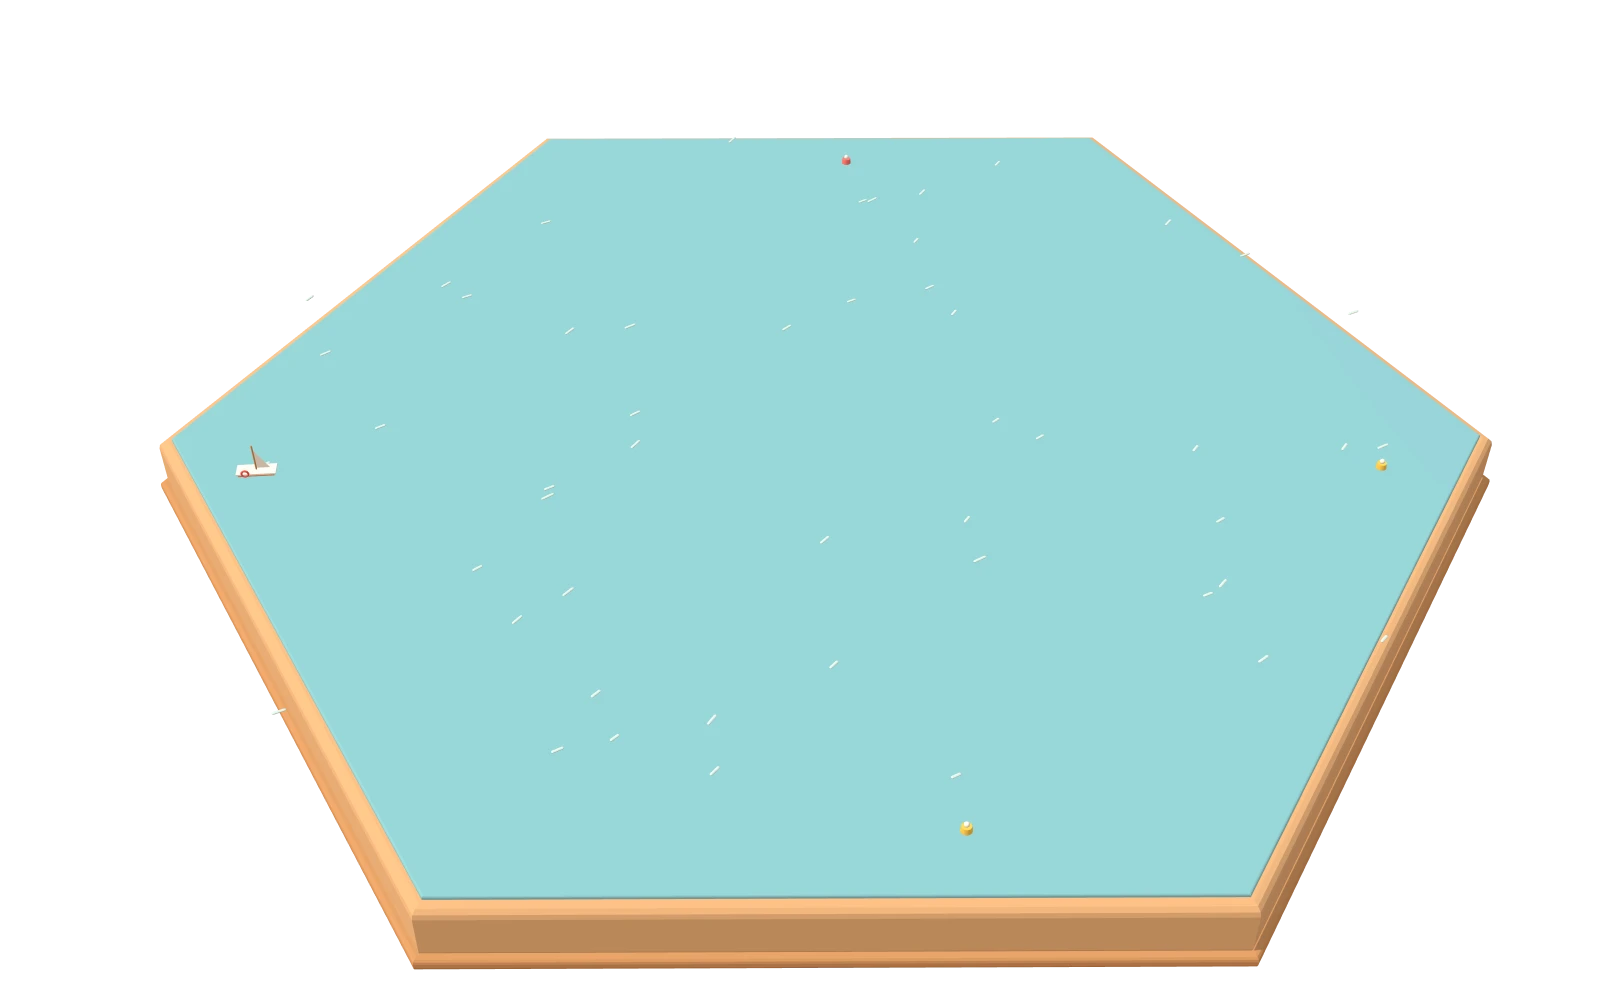
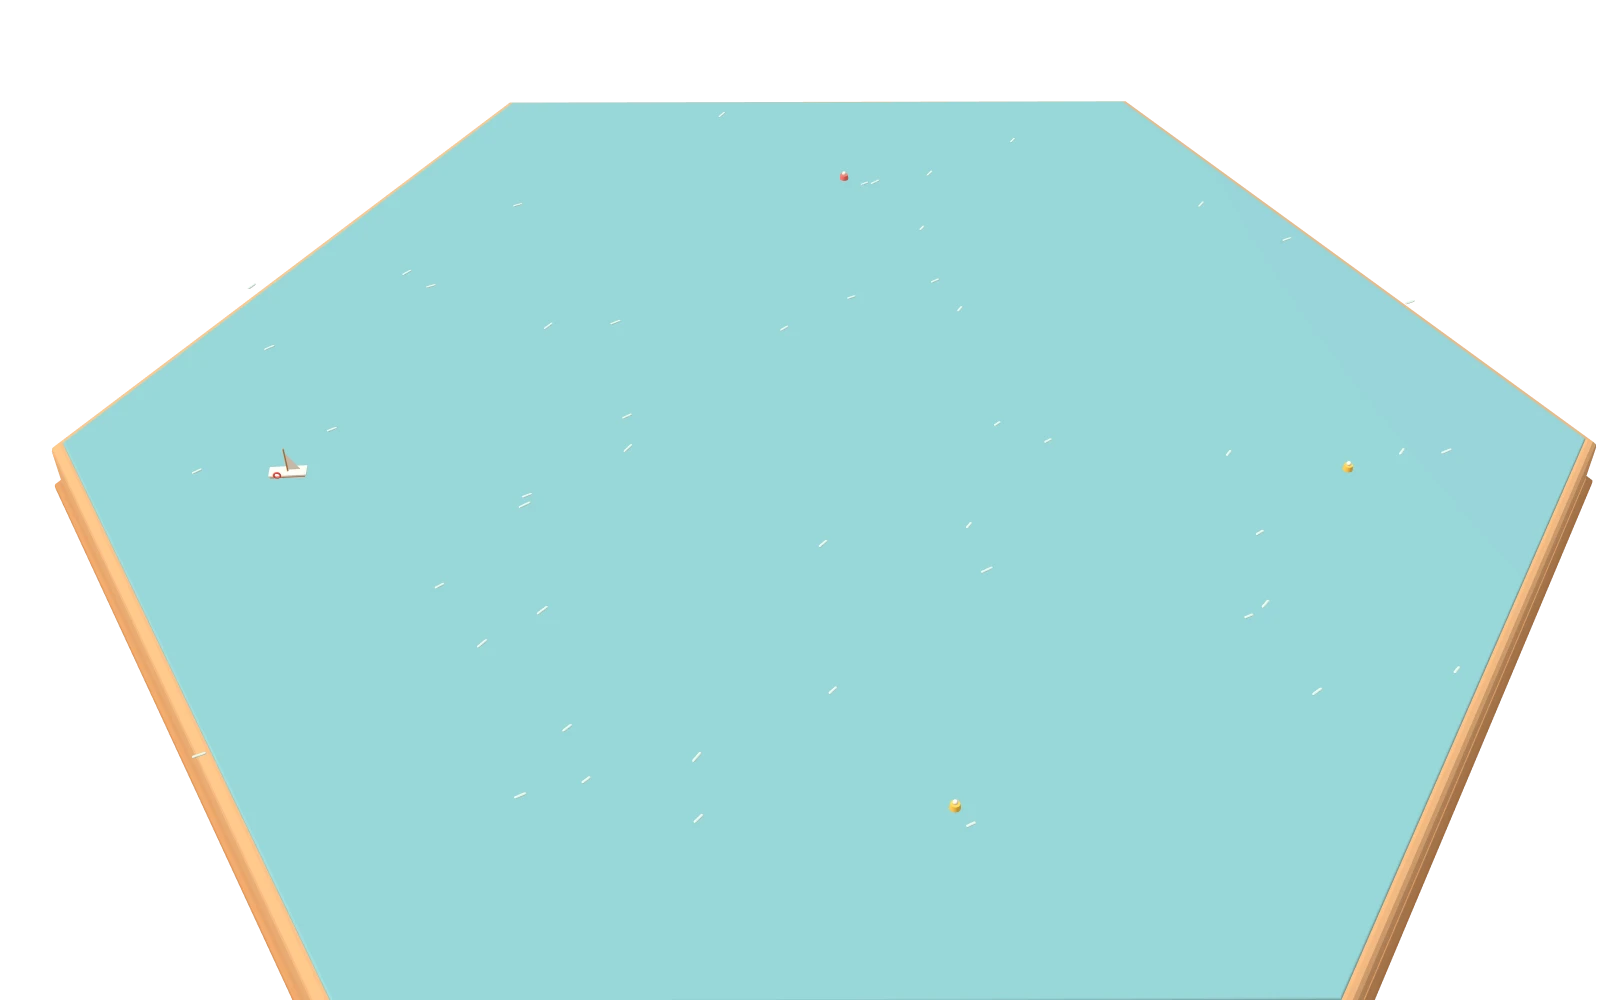
feat(island): 第 7 座「節慶島」——雪地＋聖誕裝飾，放 unit22 聖誕工坊
- data.js：節慶島 at:[-5,10]（離思考島、打字島各 5 格）、from:'type'（吊橋從打字島接）、small（只用第一圈，最多 6 關）、theme:'xmas'
- island-3d.html：
  - 島位置支援 at、吊橋支援從別座島出發、small 島不長第二圈
  - 底座 PLATE_R 17.5→21.5、陰影範圍 ±20→±24、三個機位用 CAM_K=1.06 往後拉
  - THEMES.xmas：雪地地塊、拐杖糖紅白環塔＋金星＋發光燈泡、空地塊輪放聖誕樹／雪人／禮物堆／拐杖糖
  - 新 3D 小物 xtree（小聖誕樹）
- 重新產圖：island/img（新增 fest.webp）、map-land/port.json（31 個熱區）

Changed region(s): [[0.0312, 0.093, 1.0, 1.0], [0.5938, 0.806, 0.625, 0.837]]

diff --git a/island-3d.html b/island-3d.html
@@ -177,17 +177,20 @@ const C = {
 const scene = new THREE.Scene();
 const camera = new THREE.PerspectiveCamera(28, innerWidth/innerHeight, 1, 220);
 const HOME_T = new THREE.Vector3(0, -1.2, 1.4);
-// 直向螢幕視野窄，依寬高比把鏡頭往後拉，讓六座島都入鏡
+// 直向螢幕視野窄，依寬高比把鏡頭往後拉，讓所有島都入鏡
+// CAM_K：2026-11-19 加第 7 座節慶島、底座 17.5→21.5，三個機位（互動橫／直、產圖橫／直）都從 HOME_T 往後拉這個倍數
+const CAM_K = 1.06;
+const camAt = v => v.clone().sub(HOME_T).multiplyScalar(CAM_K).add(HOME_T);
 const homePos = () => { const a = innerWidth / innerHeight;
-  if (a >= 1) return new THREE.Vector3(19.5, 33.5, 35.5);
-  const k = Math.min(1.6, Math.max(1, .58 / a)); return new THREE.Vector3(19.5, 60, 50).sub(HOME_T).multiplyScalar(k).add(HOME_T); };
+  if (a >= 1) return camAt(new THREE.Vector3(19.5, 33.5, 35.5));
+  const k = Math.min(1.6, Math.max(1, .58 / a)); return camAt(new THREE.Vector3(19.5, 60, 50).sub(HOME_T).multiplyScalar(k).add(HOME_T)); };
 camera.position.copy(homePos());
 
 const hemi = new THREE.HemisphereLight(0xfffaf0, 0xf0c9a0, 1.7); hemi.layers.enableAll(); scene.add(hemi);
 const sun = new THREE.DirectionalLight(0xfff0d8, 2.6); sun.layers.enableAll();
 sun.position.set(-16, 28, 14); sun.castShadow = true;
 sun.shadow.mapSize.set(small ? 1024 : 2048, small ? 1024 : 2048);
-Object.assign(sun.shadow.camera, { left:-20, right:20, top:20, bottom:-20, near:1, far:90 });
+Object.assign(sun.shadow.camera, { left:-24, right:24, top:24, bottom:-24, near:1, far:90 }); // 2026-11-19 底座放大到 21.5，跟著放大
 sun.shadow.bias = -0.0004; sun.shadow.normalBias = 0.02;
 scene.add(sun);
 
@@ -219,7 +222,7 @@ const ring = (cq, cr, k) => { if (!k) return [[cq,cr]]; const out = []; let q = 
   for (let i=0;i<6;i++) for (let j=0;j<k;j++) { out.push([q,r]); q += DIRS[i][0]; r += DIRS[i][1]; } return out; };
 
 // ================= 水面底盤 =================
-const PLATE_R = 17.5;
+const PLATE_R = 21.5; // 2026-11-19 從 17.5 放大，容納第 7 座節慶島（at [-5,10]，離中心 15）
 mesh(hexGeo(PLATE_R, 1.6, .25), C.plateSide, scene, 0, -1.75, 0);
 mesh(hexGeo(PLATE_R + .25, .35, .12), C.plateSide2, scene, 0, -1.9, 0);
 { const water = new THREE.Mesh(hexGeo(PLATE_R - .35, .2, .05), new THREE.MeshStandardMaterial({ color:C.water, roughness:.25, metalness:.05 }));
@@ -227,7 +230,7 @@ mesh(hexGeo(PLATE_R + .25, .35, .12), C.plateSide2, scene, 0, -1.9, 0);
 const ripples = new THREE.InstancedMesh(new THREE.CapsuleGeometry(.04, .18, 2, 6), mat(0xd6f2fa, { roughness:.4 }), 50);
 const ripData = [];
 { const m4 = new THREE.Matrix4(), q4 = new THREE.Quaternion();
-  for (let i=0;i<50;i++) { const a = rnd()*Math.PI*2, d = 3 + rnd()*13; ripData.push({ x:Math.cos(a)*d, z:Math.sin(a)*d, rz:rnd()*.6, s:1+rnd()*.5, ph:rnd()*6 });
+  for (let i=0;i<50;i++) { const a = rnd()*Math.PI*2, d = 3 + rnd()*16; ripData.push({ x:Math.cos(a)*d, z:Math.sin(a)*d, rz:rnd()*.6, s:1+rnd()*.5, ph:rnd()*6 });
     q4.setFromEuler(new THREE.Euler(Math.PI/2, 0, ripData[i].rz)); m4.compose(new THREE.Vector3(ripData[i].x, -.04, ripData[i].z), q4, new THREE.Vector3(1, ripData[i].s, .5)); ripples.setMatrixAt(i, m4); }
   scene.add(ripples); }
 
@@ -330,6 +333,12 @@ const PROPS = {
     mesh(SP(.012,6,6), 0x3b2f2a, g, .22,.1,.03); },
   mushroom(g) { [[0,0,1],[.14,.08,.6]].forEach(([x,z,s]) => { mesh(CY(.04*s,.05*s,.18*s,10), 0xfff6e6, g, x,.09*s,z);
     mesh(SP(.13*s,16,10,0,Math.PI*2,0,Math.PI/2), 0xff6f8f, g, x,.17*s,z); for (let i=0;i<5;i++) { const a = i*1.25; mesh(SP(.022*s,6,6), 0xffffff, g, x+Math.cos(a)*.08*s,.25*s,z+Math.sin(a)*.08*s); } }); },
+  // 節慶島：小聖誕樹（三層綠錐＋金星＋彩球）
+  xtree(g) { [[.2,.26,.16],[.16,.22,.3],[.11,.18,.42]].forEach(([r,h,y]) => mesh(CO(r,h,10), 0x2e9e5b, g, 0,y,0));
+    mesh(CY(.04,.05,.08,8), 0x8a5a33, g, 0,.04,0);
+    mesh(new THREE.OctahedronGeometry(.055,0), 0xffd45c, g, 0,.54,0, { emissive:0xffb000, emissiveIntensity:.5 });
+    [[.12,.2,.08,0xff5a5a],[-.1,.27,.09,0xffd45c],[.07,.36,-.08,0x6fb3ff],[-.06,.18,-.12,0xff8fc4],[.02,.42,.07,0xffffff]].forEach(([x,y,z,c]) => mesh(SP(.028,8,6), c, g, x,y,z));
+    mesh(B(.1,.08,.1), 0xff5a5a, g, .2,.04,.12); mesh(B(.08,.06,.08), 0x5fd38d, g, -.2,.03,.14); },
   tent(g) { mesh(CO(.24,.34,4), 0xffa26b, g, 0,.17,0).rotation.y = Math.PI/4; mesh(B(.1,.18,.01), 0x7a4a2a, g, 0,.09,.17);
     mesh(CY(.008,.008,.2,6), 0x6b5a4e, g, 0,.42,0); mesh(B(.1,.06,.005), 0x6fb3ff, g, .05,.49,0);
     for (let i=0;i<5;i++) { const a = i*1.256; mesh(new THREE.DodecahedronGeometry(.025), C.rock, g, .28+Math.cos(a)*.06,.02,.12+Math.sin(a)*.06); }
@@ -392,18 +401,59 @@ let hubStar;
 addLabel(`<div class="isl" style="--c:#ffe1a8"><i>🏠</i>我的家</div>`, new THREE.Vector3(0, 3.4, 0)).el.classList.add('top');
 const hint = addLabel(`<div class="hint">👆</div>`, new THREE.Vector3(1.6, .9, 1.4));
 
-// 六座主題島
+// ================= 節慶主題（data.js 的 theme）=================
+// 只套在有 theme 的島：地面顏色、塔樓加裝飾、空地塊放節慶小物、關卡地塊旁的點綴
+function snowman(p, x, z, s=1) { const t = p.userData.top;
+  mesh(SP(.17*s,14,10), 0xffffff, p, x, t+.15*s, z); mesh(SP(.12*s,14,10), 0xffffff, p, x, t+.38*s, z); mesh(SP(.085*s,12,10), 0xffffff, p, x, t+.56*s, z);
+  mesh(CY(.07*s,.07*s,.1*s,12), 0x2b2b2b, p, x, t+.69*s, z); mesh(CY(.1*s,.1*s,.015*s,12), 0x2b2b2b, p, x, t+.64*s, z);
+  mesh(new THREE.TorusGeometry(.09*s,.025*s,6,14), 0xe0524a, p, x, t+.47*s, z).rotation.x = Math.PI/2;
+  mesh(CO(.018*s,.09*s,6), 0xff8a3d, p, x+.02*s, t+.56*s, z+.11*s).rotation.x = Math.PI/2;
+  [-1,1].forEach(k => mesh(SP(.013*s,6,6), 0x2b2b2b, p, x+.03*k*s, t+.59*s, z+.075*s)); }
+function candyCane(p, x, z, s=1) { const t = p.userData.top, g = new THREE.Group(); g.position.set(x, t, z); g.rotation.y = rnd()*6.28; p.add(g);
+  for (let i=0;i<6;i++) mesh(CY(.028*s,.028*s,.07*s,8), i%2 ? 0xffffff : 0xe0524a, g, 0, (.035+i*.07)*s, 0);
+  mesh(new THREE.TorusGeometry(.07*s,.028*s,8,12,Math.PI), 0xe0524a, g, .07*s, .42*s, 0); }
+function giftPile(p, x, z, s=1) { const t = p.userData.top;
+  [[0,0,.16,0xe0524a,0xffd45c],[.15,.06,.12,0x2e9e5b,0xffffff],[-.05,.13,.1,0x6fb3ff,0xe0524a]].forEach(([dx,dz,w,c,rb]) => {
+    const h = w*.85; mesh(B(w*s,h*s,w*s), c, p, x+dx*s, t+h*s/2, z+dz*s).rotation.y = dx*3;
+    mesh(B(w*s*1.02,h*s*1.02,.02*s), rb, p, x+dx*s, t+h*s/2, z+dz*s).rotation.y = dx*3; }); }
+function bigXtree(p, x, z, s=1) { const g = new THREE.Group(); g.position.set(x, p.userData.top, z); g.scale.setScalar(s); g.rotation.y = rnd()*6.28; p.add(g); PROPS.xtree(g); }
+const THEMES = {
+  xmas: {
+    ground: 0xf1f6fb,                 // 雪地
+    tower(ct, top) {                  // 拐杖糖紅白環＋頂端金星＋一圈發光燈泡
+      for (let y=0;y<6;y++) mesh(new THREE.TorusGeometry(.34,.035,6,24), y%2 ? 0xffffff : 0xe0524a, ct, 0, top+.38+y*.2, 0).rotation.x = Math.PI/2;
+      const star = mesh(new THREE.OctahedronGeometry(.17,0), 0xffd45c, ct, 0, top+2.45, 0, { emissive:0xffb000, emissiveIntensity:.6 }); star.scale.z = .45;
+      const LC = [0xff5a5a, 0xffd45c, 0x5fd38d, 0x6fb3ff];
+      for (let i=0;i<16;i++) { const a = i*.85, y = top+.35+i*.075; mesh(SP(.035,8,6), LC[i%4], ct, Math.cos(a)*.4, y, Math.sin(a)*.4, { emissive:LC[i%4], emissiveIntensity:.8 }); }
+      giftPile(ct, .55, .35, 1.1); candyCane(ct, -.6, .3, 1.1);
+    },
+    fill(t, k) {                      // 空地塊：輪流放聖誕樹、雪人、禮物堆、拐杖糖
+      [ () => { bigXtree(t, -.1, 0, 2.3); giftPile(t, .45, .35); },
+        () => { snowman(t, -.15, .05, 1.3); candyCane(t, .4, -.3); bigXtree(t, .4, .35, 1.2); },
+        () => { bigXtree(t, .15, -.15, 1.8); snowman(t, -.4, .35, .8); },
+        () => { giftPile(t, -.2, -.1, 1.3); candyCane(t, .35, .3, 1.2); bigXtree(t, .35, -.35, 1.1); },
+        () => { bigXtree(t, -.3, -.25, 1.5); bigXtree(t, .35, .25, 1.3); },
+        () => { snowman(t, .1, 0, 1.4); giftPile(t, -.45, .3, .8); } ][k % 6]();
+    },
+    dress(t) { candyCane(t, -.5, .35, .9); giftPile(t, .5, -.35, .7); },   // 關卡地塊旁的點綴
+  },
+};
+
+// 主題島：前六座圍著「我的家」一圈（CENTERS）；第 7 座起的島在 data.js 自帶 at:[q,r]，
+// 吊橋從 from 指定的島接過去（2026-11-19 節慶島）
 const CENTERS = [[5,0],[0,5],[-5,5],[-5,0],[0,-5],[5,-5]];
 const hubW = new THREE.Vector3();
 ISLANDS.forEach((isl, ii) => {
-  const [cq, cr] = CENTERS[ii], c = toWorld(cq, cr);
+  const [cq, cr] = isl.at || CENTERS[ii], c = toWorld(cq, cr);
   const root = newRoot(c, 1 + ii, isl.id);
   isl.center = c;
   const need = isl.list.length;
   const r2 = ring(cq, cr, 2).sort((a,b) => toWorld(...b).length() - toWorld(...a).length());
-  const slots = [...ring(cq, cr, 1), ...r2.slice(0, Math.max(0, need - 6) + 2)];
+  // small 島（節慶島）靠近底座邊緣，只用第一圈，不往外長第二圈
+  const slots = isl.small ? ring(cq, cr, 1) : [...ring(cq, cr, 1), ...r2.slice(0, Math.max(0, need - 6) + 2)];
 
-  const ct = tile(root, cq, cr, { top:pastel(isl.color,.45), lift:.25 });
+  const T = THEMES[isl.theme];
+  const ct = tile(root, cq, cr, { top:T ? T.ground : pastel(isl.color,.45), lift:.25 });
   const top = ct.userData.top;
   mesh(CY(.42,.5,.25,6), C.stone, ct, 0, top+.12, 0).rotation.y = Math.PI/6;
   mesh(CY(.3,.36,1.3,20), C.cream, ct, 0, top+.9, 0);
@@ -411,31 +461,35 @@ ISLANDS.forEach((isl, ii) => {
   for (let i=0;i<6;i++) { const a = i*Math.PI/3; windowAt(ct, Math.sin(a)*.32, top+1.15, Math.cos(a)*.32, a); }
   mesh(CY(.4,.4,.06,20), darker(C.cream,.1), ct, 0, top+1.58, 0); mesh(CO(.44,.62,20), pastel(isl.color,.1), ct, 0, top+1.92, 0);
   mesh(SP(.07,12,8), 0xffd45c, ct, 0, top+2.27, 0, { metalness:.3, roughness:.35 });
-  isl.labelPos = new THREE.Vector3(c.x, top + .25 + 2.85, c.z);
+  if (T) T.tower(ct, top);
+  isl.labelPos = new THREE.Vector3(c.x, top + .25 + 2.85 + (T ? .3 : 0), c.z);
   addLabel(`<div class="isl" style="--c:${hex(pastel(isl.color,.35))}"><i>${isl.icon}</i>${isl.name}</div>`, isl.labelPos).el.classList.add('top');
   hits.push({ local:ct.position.clone(), root, island:isl, world:ct.userData.world, height:2.6, top:[0, 0, .45], ground:.5, label:isl.labelPos });
 
   slots.forEach(([q,r], k) => {
-    const t = tile(root, q, r, { lift:(k%3)*.05 });
+    const t = tile(root, q, r, { lift:(k%3)*.05, ...(T ? { top:T.ground } : {}) });
     const u = isl.list[k];
     if (u) {
       const bi = (k + ii) % 3;
       BUILD[bi](t, isl.color, -.18, -.22);
       const pg = new THREE.Group(); pg.position.set(.38, t.userData.top, .32); pg.rotation.y = rnd()*1.2 - .6; t.add(pg);
       PROPS[u.prop](pg);
-      flowers(t, -.5, .35, 3); if (rnd() < .6) bush(t, .5, -.35, .9); if (rnd() < .5) rock(t, -.6, -.05);
+      if (T) T.dress(t); else { flowers(t, -.5, .35, 3); if (rnd() < .6) bush(t, .5, -.35, .9); if (rnd() < .5) rock(t, -.6, -.05); }
       const w = t.userData.world;
       u.world = w;
       u.badge = addLabel(`<div class="bdg" style="--c:${hex(isl.color)}">${u.emoji}${u.rec ? '<s>⭐</s>' : ''}</div>`, new THREE.Vector3(w.x - .18, w.y - .42 + BUILD_H[bi], w.z - .22));
       hits.push({ local:t.position.clone(), root, unit:u, world:w, height:[1.05, 1.85, .95][bi], top:[-.18, -.22, .38] });
+    } else if (T) {
+      T.fill(t, k);
     } else {
       tree(t, -.25, .15, 1.15); tree(t, .3, -.2, .95); tree(t, .25, .4, .75); rock(t, -.4, -.4, 1.3); flowers(t, 0, -.05, 4);
     }
   });
 
   // 木板橋（自己一個 root，開場時從家裡長出去）
-  const dir = c.clone().sub(hubW).normalize();
-  const a = hubW.clone().add(dir.clone().multiplyScalar(SQ3 + .9));
+  const src = isl.from ? ISLANDS.find(x => x.id === isl.from).center : hubW;
+  const dir = c.clone().sub(src).normalize();
+  const a = src.clone().add(dir.clone().multiplyScalar(SQ3 + .9));
   const b = c.clone().sub(dir.clone().multiplyScalar(SQ3 + .9));
   const len = a.distanceTo(b), n = Math.floor(len / .2);
   const br = new THREE.Group(); br.position.copy(a); br.rotation.y = Math.atan2(dir.x, dir.z); scene.add(br);
@@ -489,7 +543,7 @@ if (EXPORT) {
   renderer.setPixelRatio(1); renderer.setSize(W, H, false); renderer.setClearColor(0x000000, 0);
   sun.shadow.mapSize.set(4096, 4096);
   camera.aspect = W / H; camera.updateProjectionMatrix();
-  camera.position.copy(EXPORT === 'port' ? new THREE.Vector3(19.5, 60, 50) : new THREE.Vector3(19.5, 33.5, 35.5));
+  camera.position.copy(camAt(EXPORT === 'port' ? new THREE.Vector3(19.5, 60, 50) : new THREE.Vector3(19.5, 33.5, 35.5)));
   camera.lookAt(HOME_T); camera.updateMatrixWorld();
 
   // 分層：每個 root 一層（中央島、六座島、橋），其餘（底盤、水、船、浮標）是 base；雲交給 CSS

diff --git a/island/data.js b/island/data.js
@@ -6,6 +6,9 @@
 //             'board:<zoneId>'＝讀 edtech-board-certs 的證書
 //   3D 小物：island-3d.html 裡 PROPS 的 key，決定地塊上擺什麼小模型
 // ⚠ 一座島最多 8 關（第一圈 6 格＋第二圈補位），超過要改 island-3d.html 的排位。
+//    small:true 的島（節慶島）只有第一圈，最多 6 關。
+// 島的位置：前 6 座照 island-3d.html 的 CENTERS 順序；之後新增的島要自己給 at:[q,r]（六角座標）
+// 與 from:'<島 id>'（吊橋從哪座島接過來），不然會沒有位置。
 
 const G1 = '🎒 一年級', GM = '📘 中年級', G3 = '🎓 三年級', GA = '🎲 都能玩';
 
@@ -39,6 +42,12 @@ export const ISLANDS = [
   { id:'board', name:'大富翁港', icon:'🎲', color:0xff9f5a, units:[
     ['森林大富翁','🌳','dice','board/index.html','資訊大富翁：森林大冒險',GA,'board:forest'],
     ['海洋大富翁','🐳','boat','board/ocean.html','資訊大富翁：海洋大探索',GA,'board:ocean'] ] },
+  // 第 7 座（2026-11-19）：節慶遊戲專用。外圈 6 個位置已滿，放在思考島與打字島之間的前方，
+  // 吊橋從打字島接過來（from）；small＝只用中心＋第一圈，最多 6 關（春節、兒童節等之後放這裡）
+  //   at [-5,10]：離思考島、打字島各 5 格（跟其他島同間距），island-3d.html 的底座為此放大到 21.5
+  //   theme:'xmas'：雪地、拐杖糖塔、燈泡、聖誕樹／雪人／禮物堆（換節慶時改這裡，island-3d.html 的 THEMES 加對應裝飾）
+  { id:'fest', name:'節慶島', icon:'🎄', color:0xe0524a, at:[-5,10], from:'type', small:true, theme:'xmas', units:[
+    ['聖誕工坊','🎄','xtree','units/unit22-xmas-workshop/','聖誕工坊大救援',GM,22] ] },
 ];
 
 // ---------- 成績（只讀 localStorage，讀不到就當沒玩過） ----------
